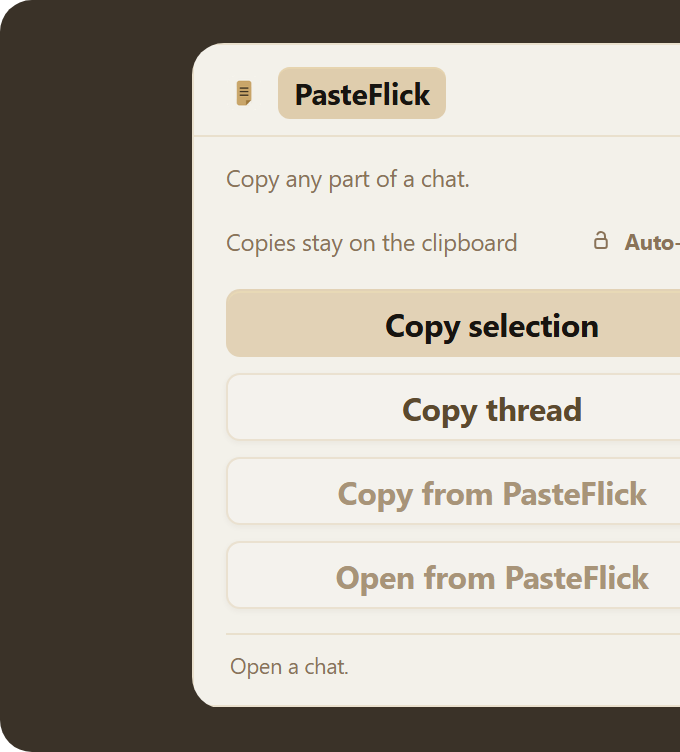
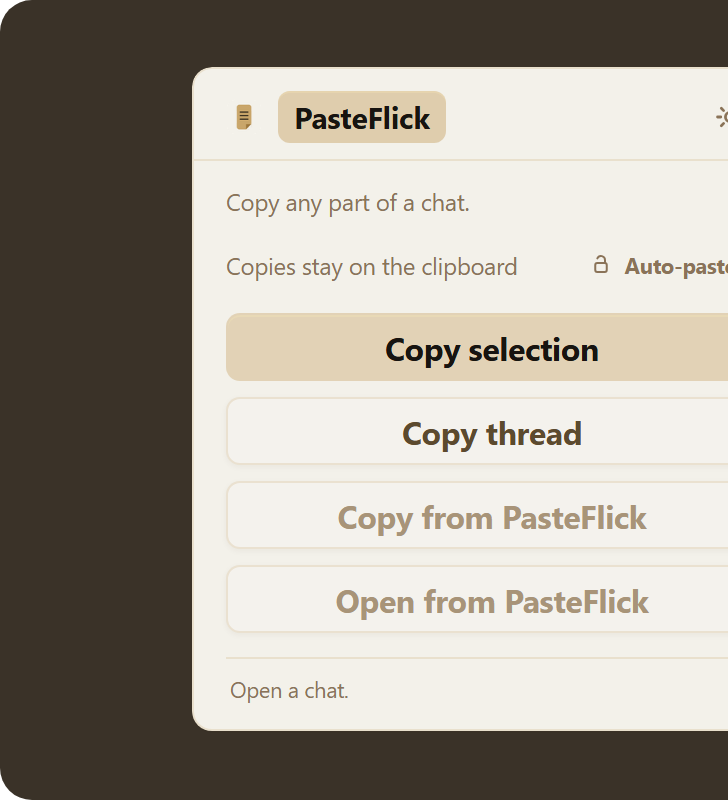
Refresh the README photos so they match the real chip, spell out the bookmark-to-copy loop, and keep the marks clear of the bubbles.

diff --git a/readme/capture_shots.py b/readme/capture_shots.py
@@ -42,10 +42,10 @@ html,body{margin:0;height:100%;background:transparent;}
   width:100%;
   height:100%;
   display:flex;
-  align-items:flex-start;
+  align-items:center;
   justify-content:center;
   gap:24px;
-  padding:24px;
+  padding:32px;
   background:#3a3228;
   border-radius:16px;
 }
@@ -93,80 +93,72 @@ iframe{
         if name == "shot-chip.html":
             html = """<!doctype html>
 <html><head><meta charset="utf-8"><style>
-html,body{margin:0;width:400px;height:200px;background:transparent;}
+html,body{margin:0;width:148px;height:88px;background:transparent;}
 .stage{
   box-sizing:border-box;
-  width:400px;
-  height:200px;
+  width:148px;
+  height:88px;
   display:flex;
-  align-items:stretch;
-  justify-content:stretch;
-  padding:10px;
+  align-items:center;
+  justify-content:center;
+  padding:12px;
   background:#3a3228;
   border-radius:16px;
 }
 .chip{
   display:flex;
   flex-direction:column;
-  justify-content:space-between;
-  gap:12px;
-  flex:1;
-  min-width:0;
-  min-height:0;
-  padding:8px;
+  gap:4px;
+  width:max-content;
+  max-width:148px;
+  padding:5px 5px 4px;
   color:#5c4a2e;
-  border-radius:12px;
+  border-radius:10px;
   background:color-mix(in srgb, #c9a66a 8%, #f7f7f5);
   border:1px solid rgba(201,166,106,.22);
   box-shadow:0 1px 3px rgba(50,40,20,.05);
 }
-.head{display:flex;align-items:stretch;justify-content:space-between;gap:10px;}
+.head{display:flex;align-items:center;justify-content:space-between;gap:4px;min-width:0;}
 .kicker{
-  flex:1;
-  display:grid;
-  place-items:center;
-  padding:8px 12px;
-  font:650 18px/1.2 "Segoe UI Variable Text","Segoe UI",system-ui,sans-serif;
+  flex:none;
+  padding:2px 6px;
+  font:650 10px/1.2 "Segoe UI Variable Text","Segoe UI",system-ui,sans-serif;
   letter-spacing:-0.01em;
   color:#171410;
-  border-radius:8px;
+  border-radius:6px;
   background:rgba(201,166,106,.48);
   box-shadow:inset 0 1px 0 rgba(244,226,180,.35);
 }
 .extras{
-  position:relative;
-  flex:none;
-  align-self:center;
-  width:42px;height:22px;
+  position:relative;flex:none;
+  width:22px;height:12px;
   border:1px solid rgba(201,166,106,.28);
-  border-radius:11px;
-  background:rgba(23,20,16,.22);
+  border-radius:6px;
+  background:rgba(201,166,106,.4);
   box-shadow:inset 0 1px 0 rgba(244,226,180,.12);
 }
 .extras span{
-  position:absolute;top:4px;left:4px;
-  width:12px;height:12px;border-radius:6px;background:#e4d2ae;
+  position:absolute;top:1px;left:11px;
+  width:8px;height:8px;border-radius:4px;background:#171410;
 }
-.actions{display:flex;align-items:stretch;gap:8px;flex:1;min-height:0;}
+.actions{display:flex;align-items:center;gap:2px;}
 .actions i{
-  flex:1;
-  min-height:0;
-  border-radius:10px;
+  width:24px;height:24px;border-radius:7px;
   display:grid;place-items:center;
   background:rgba(201,166,106,.4);
   color:#171410;
   box-shadow:inset 0 1px 0 rgba(244,226,180,.35);
 }
-.actions svg{display:block;width:22px;height:22px;}
+.actions svg{display:block;width:13px;height:13px;}
 </style></head>
 <body>
   <div class="stage">
     <div class="chip">
       <div class="head"><span class="kicker">PasteFlick</span><span class="extras"><span></span></span></div>
       <div class="actions">
-        <i><svg viewBox="0 0 24 24" width="18" height="18"><rect x="8" y="8" width="11" height="13" rx="2" fill="none" stroke="currentColor" stroke-width="1.75"/><path d="M5 16V5a2 2 0 0 1 2-2h9" fill="none" stroke="currentColor" stroke-width="1.75"/></svg></i>
-        <i><svg viewBox="0 0 24 24" width="18" height="18"><path d="M12 4v10" fill="none" stroke="currentColor" stroke-width="1.75" stroke-linecap="round"/><path d="M8 10l4 4 4-4" fill="none" stroke="currentColor" stroke-width="1.75" stroke-linecap="round" stroke-linejoin="round"/><path d="M5 18h14" fill="none" stroke="currentColor" stroke-width="1.75" stroke-linecap="round"/></svg></i>
-        <i><svg viewBox="0 0 24 24" width="18" height="18"><path d="M5 12h11" fill="none" stroke="currentColor" stroke-width="1.75" stroke-linecap="round"/><path d="M12 6l7 6-7 6" fill="none" stroke="currentColor" stroke-width="1.75" stroke-linecap="round" stroke-linejoin="round"/></svg></i>
+        <i><svg viewBox="0 0 24 24"><rect x="8" y="8" width="11" height="13" rx="2" fill="none" stroke="currentColor" stroke-width="1.75"/><path d="M5 16V5a2 2 0 0 1 2-2h9" fill="none" stroke="currentColor" stroke-width="1.75"/></svg></i>
+        <i><svg viewBox="0 0 24 24"><path d="M12 4v10" fill="none" stroke="currentColor" stroke-width="1.75" stroke-linecap="round"/><path d="M8 10l4 4 4-4" fill="none" stroke="currentColor" stroke-width="1.75" stroke-linecap="round" stroke-linejoin="round"/><path d="M5 18h14" fill="none" stroke="currentColor" stroke-width="1.75" stroke-linecap="round"/></svg></i>
+        <i><svg viewBox="0 0 24 24"><path d="M5 12h11" fill="none" stroke="currentColor" stroke-width="1.75" stroke-linecap="round"/><path d="M12 6l7 6-7 6" fill="none" stroke="currentColor" stroke-width="1.75" stroke-linecap="round" stroke-linejoin="round"/></svg></i>
       </div>
     </div>
   </div>
@@ -181,9 +173,9 @@ html,body{margin:0;width:400px;height:200px;background:transparent;}
             return
         if name in {"shot-popup.html", "shot-settings.html"}:
             if name == "shot-popup.html":
-                inner, w, h, pad = "/popup.html?shot=1", 300, 336, 20
+                inner, w, h, pad = "/popup.html?shot=1", 300, 336, 32
             else:
-                inner, w, h, pad = "/popup-settings.html?shot=1", 300, 636, 20
+                inner, w, h, pad = "/popup-settings.html?shot=1", 300, 636, 32
             html = f"""<!doctype html>
 <html><head><meta charset="utf-8"><style>
 html,body{{margin:0;height:100%;background:transparent;}}
@@ -198,7 +190,7 @@ html,body{{margin:0;height:100%;background:transparent;}}
   background:#3a3228;
   border-radius:16px;
 }}
-iframe{{border:0;width:{w}px;height:{h}px;border-radius:16px;overflow:hidden;background:transparent;}}
+iframe{{border:0;width:{w}px;height:{h}px;border-radius:10px;overflow:hidden;background:transparent;}}
 </style></head>
 <body>
   <div class="stage"><iframe src="{inner}"></iframe></div>
@@ -238,13 +230,14 @@ html,body{margin:0;width:784px;height:420px;background:transparent;}
   box-sizing:border-box;
   width:100%;height:100%;
   display:grid;
-  grid-template-columns:max-content 52px max-content minmax(0,1fr);
+  grid-template-columns:max-content 36px 42px minmax(0,1fr);
   grid-template-rows:auto auto auto;
-  column-gap:0;
-  row-gap:14px;
+  column-gap:14px;
+  row-gap:16px;
   align-items:center;
   align-content:center;
-  padding:28px 48px 28px 28px;
+  padding:28px 40px 28px 28px;
+  overflow:visible;
   background:#f7f7f5;
   border-radius:16px;
   color:#171410;
@@ -260,59 +253,61 @@ html,body{margin:0;width:784px;height:420px;background:transparent;}
 }
 .chip{
   grid-column:1;grid-row:2;
-  display:flex;flex-direction:column;gap:6px;
-  width:max-content;
-  padding:8px 8px 7px;
-  border-radius:12px;
+  z-index:2;
+  display:flex;flex-direction:column;gap:4px;
+  width:max-content;max-width:148px;
+  padding:5px 5px 4px;
+  border-radius:10px;
   background:color-mix(in srgb, #c9a66a 8%, #f7f7f5);
   border:1px solid rgba(201,166,106,.22);
   box-shadow:
-    0 0 0 3px #c9a66a,
-    0 0 0 7px rgba(201,166,106,.28),
-    0 8px 18px rgba(50,40,20,.16);
+    0 0 0 2px #c9a66a,
+    0 0 0 5px rgba(201,166,106,.28),
+    0 6px 14px rgba(50,40,20,.14);
 }
-.head{display:flex;align-items:center;justify-content:space-between;gap:6px;}
+.head{display:flex;align-items:center;justify-content:space-between;gap:4px;}
 .kicker{
-  padding:3px 8px;
-  font:650 12px/1.2 inherit;
+  padding:2px 6px;
+  font:650 10px/1.2 inherit;
   color:#171410;
   border-radius:6px;
   background:rgba(201,166,106,.48);
   box-shadow:inset 0 1px 0 rgba(244,226,180,.35);
 }
 .extras{
-  position:relative;width:26px;height:14px;
+  position:relative;width:22px;height:12px;
   border:1px solid rgba(201,166,106,.28);
-  border-radius:7px;
-  background:rgba(23,20,16,.22);
+  border-radius:6px;
+  background:rgba(201,166,106,.4);
 }
 .extras span{
-  position:absolute;top:2px;left:2px;
-  width:8px;height:8px;border-radius:4px;background:#e4d2ae;
+  position:absolute;top:1px;left:11px;
+  width:8px;height:8px;border-radius:4px;background:#171410;
 }
-.actions{display:flex;align-items:center;gap:4px;}
+.actions{display:flex;align-items:center;gap:2px;}
 .actions i{
-  width:28px;height:28px;border-radius:8px;
+  width:24px;height:24px;border-radius:7px;
   display:grid;place-items:center;
   background:rgba(201,166,106,.4);
   color:#171410;
   box-shadow:inset 0 1px 0 rgba(244,226,180,.35);
 }
+.actions svg{display:block;width:13px;height:13px;}
 .arrow{
   grid-column:2;grid-row:2;
   display:flex;
   align-items:center;
   justify-content:center;
-  width:52px;height:36px;
+  width:40px;height:36px;
   filter:drop-shadow(0 1px 0 #5c4a2e);
 }
 .arrow .shaft{
-  width:26px;height:6px;
+  width:20px;height:6px;
   background:#c9a66a;
   border-radius:3px 0 0 3px;
   box-shadow:0 0 0 1.5px #5c4a2e;
 }
-.arrow .head{
+.arrow .point{
   width:0;height:0;
   border-top:9px solid transparent;
   border-bottom:9px solid transparent;
@@ -320,8 +315,10 @@ html,body{margin:0;width:784px;height:420px;background:transparent;}
   filter:drop-shadow(1px 0 0 #5c4a2e);
 }
 .mark{
+  box-sizing:border-box;
   width:30px;height:30px;border-radius:9px;
   display:grid;place-items:center;
+  justify-self:center;
   background:rgba(201,166,106,.4);
   color:#171410;
   box-shadow:inset 0 1px 0 rgba(244,226,180,.35);
@@ -331,20 +328,19 @@ html,body{margin:0;width:784px;height:420px;background:transparent;}
   grid-column:3;grid-row:2;
   background:rgba(201,166,106,.55);
   box-shadow:
-    0 0 0 3px #c9a66a,
-    0 0 0 7px rgba(201,166,106,.28),
-    0 8px 18px rgba(50,40,20,.16),
+    0 0 0 2px #c9a66a,
+    0 0 0 5px rgba(201,166,106,.28),
     inset 0 1px 0 rgba(244,226,180,.35);
 }
 .mark.on svg path{fill:currentColor;}
 .mark.off{
   grid-column:3;grid-row:3;
-  opacity:.5;
+  opacity:.72;
 }
-.user{grid-column:4;grid-row:2;}
-.asst{grid-column:4;grid-row:3;}
 .msg{
-  max-width:380px;
+  box-sizing:border-box;
+  min-width:0;
+  max-width:348px;
   margin:0;
   padding:12px 14px;
   border-radius:10px;
@@ -353,8 +349,8 @@ html,body{margin:0;width:784px;height:420px;background:transparent;}
   line-height:1.45;
   font-size:13px;
 }
-.user .msg{background:color-mix(in srgb, #c9a66a 12%, #f7f7f5);color:#171410;}
-.asst .msg{background:#f3f1ea;color:#5c4a2e;}
+.msg.user{grid-column:4;grid-row:2;background:color-mix(in srgb, #c9a66a 12%, #f7f7f5);color:#171410;}
+.msg.asst{grid-column:4;grid-row:3;background:#f3f1ea;color:#5c4a2e;}
 .role{
   display:inline-block;margin:0 0 8px;padding:2px 6px;
   font:650 10px/1.2 inherit;
@@ -370,24 +366,20 @@ html,body{margin:0;width:784px;height:420px;background:transparent;}
       <div class="chip">
         <div class="head"><span class="kicker">PasteFlick</span><span class="extras"><span></span></span></div>
         <div class="actions">
-          <i><svg viewBox="0 0 24 24" width="13" height="13"><rect x="8" y="8" width="11" height="13" rx="2" fill="none" stroke="currentColor" stroke-width="1.75"/><path d="M5 16V5a2 2 0 0 1 2-2h9" fill="none" stroke="currentColor" stroke-width="1.75"/></svg></i>
-          <i><svg viewBox="0 0 24 24" width="13" height="13"><path d="M12 4v10" fill="none" stroke="currentColor" stroke-width="1.75" stroke-linecap="round"/><path d="M8 10l4 4 4-4" fill="none" stroke="currentColor" stroke-width="1.75" stroke-linecap="round" stroke-linejoin="round"/><path d="M5 18h14" fill="none" stroke="currentColor" stroke-width="1.75" stroke-linecap="round"/></svg></i>
-          <i><svg viewBox="0 0 24 24" width="13" height="13"><path d="M5 12h11" fill="none" stroke="currentColor" stroke-width="1.75" stroke-linecap="round"/><path d="M12 6l7 6-7 6" fill="none" stroke="currentColor" stroke-width="1.75" stroke-linecap="round" stroke-linejoin="round"/></svg></i>
+          <i><svg viewBox="0 0 24 24"><rect x="8" y="8" width="11" height="13" rx="2" fill="none" stroke="currentColor" stroke-width="1.75"/><path d="M5 16V5a2 2 0 0 1 2-2h9" fill="none" stroke="currentColor" stroke-width="1.75"/></svg></i>
+          <i><svg viewBox="0 0 24 24"><path d="M12 4v10" fill="none" stroke="currentColor" stroke-width="1.75" stroke-linecap="round"/><path d="M8 10l4 4 4-4" fill="none" stroke="currentColor" stroke-width="1.75" stroke-linecap="round" stroke-linejoin="round"/><path d="M5 18h14" fill="none" stroke="currentColor" stroke-width="1.75" stroke-linecap="round"/></svg></i>
+          <i><svg viewBox="0 0 24 24"><path d="M5 12h11" fill="none" stroke="currentColor" stroke-width="1.75" stroke-linecap="round"/><path d="M12 6l7 6-7 6" fill="none" stroke="currentColor" stroke-width="1.75" stroke-linecap="round" stroke-linejoin="round"/></svg></i>
         </div>
       </div>
-      <div class="arrow" aria-hidden="true"><span class="shaft"></span><span class="head"></span></div>
+      <div class="arrow" aria-hidden="true"><span class="shaft"></span><span class="point"></span></div>
       <div class="mark on">
         <svg viewBox="0 0 24 24" width="14" height="14"><path fill="none" stroke="currentColor" stroke-width="1.75" stroke-linejoin="round" d="M7 3.75h10A1.25 1.25 0 0 1 18.25 5v16.25L12 17.5l-6.25 3.75V5A1.25 1.25 0 0 1 7 3.75z"/></svg>
       </div>
-      <div class="user">
-        <div class="msg"><span class="role">You</span><div>Can you turn this into a short note I can paste into Slack?</div></div>
-      </div>
+      <div class="msg user"><span class="role">You</span><div>Can you turn this into a short note I can paste into Slack?</div></div>
       <div class="mark off">
         <svg viewBox="0 0 24 24" width="14" height="14"><path fill="none" stroke="currentColor" stroke-width="1.75" stroke-linejoin="round" d="M7 3.75h10A1.25 1.25 0 0 1 18.25 5v16.25L12 17.5l-6.25 3.75V5A1.25 1.25 0 0 1 7 3.75z"/></svg>
       </div>
-      <div class="asst">
-        <div class="msg"><span class="role">Assistant</span><div>Shipped the chip under the chat title. Copy, Save, and Fling sit in one place, and the bookmark still marks where you left off.</div></div>
-      </div>
+      <div class="msg asst"><span class="role">Assistant</span><div>Bookmark a message, then Copy on the chip. PasteFlick grabs that stretch of the chat so you can drop it into Slack, Notes, or Fling it into the last app you used.</div></div>
     </div>
   </div>
 </body></html>"""
@@ -484,11 +476,12 @@ def main() -> None:
     time.sleep(0.2)
     base = f"http://127.0.0.1:{port}"
     try:
-        shot(f"{base}/shot-chip.html", OUT / "flick.png", 400, 200, "00000000")
-        shot(f"{base}/shot-pair.html", OUT / "pair.png", 672, 684, "00000000")
-        shot(f"{base}/shot-popup.html", OUT / "popup.png", 340, 376, "00000000")
-        shot(f"{base}/shot-settings.html", OUT / "settings.png", 340, 676, "00000000")
-        shot(f"{base}/shot-chat.html", OUT / "thread.png", 784, 420, "00000000")
+        # New filenames so GitHub doesn't serve stale shots.
+        shot(f"{base}/shot-chip.html?v=3", OUT / "chip.png", 148, 88, "00000000")
+        shot(f"{base}/shot-pair.html?v=3", OUT / "windows.png", 688, 700, "00000000")
+        shot(f"{base}/shot-popup.html?v=3", OUT / "popup.png", 364, 400, "00000000")
+        shot(f"{base}/shot-settings.html?v=3", OUT / "settings.png", 364, 700, "00000000")
+        shot(f"{base}/shot-chat.html?v=4", OUT / "howto.png", 784, 420, "00000000")
     finally:
         httpd.shutdown()
     print("ok")

diff --git a/README.md b/README.md
@@ -7,15 +7,15 @@
 </p>
 
 <p align="center">
-  <img src="readme/shots/flick.png" width="240" alt="PasteFlick chip — Copy, Save, and Fling">
+  <img src="readme/shots/chip.png" width="148" alt="PasteFlick chip — Copy, Save, and Fling">
 </p>
 
 <p align="center">
-  <img src="readme/shots/thread.png" width="680" alt="PasteFlick chip and bookmark pins on a chat">
+  <img src="readme/shots/howto.png" width="680" alt="Bookmark a message, then Copy from the chip">
 </p>
 
 <p align="center">
-  <img src="readme/shots/pair.png" width="680" alt="PasteFlick popup and settings">
+  <img src="readme/shots/windows.png" width="680" alt="PasteFlick popup and settings">
 </p>
 
 <p align="center">
